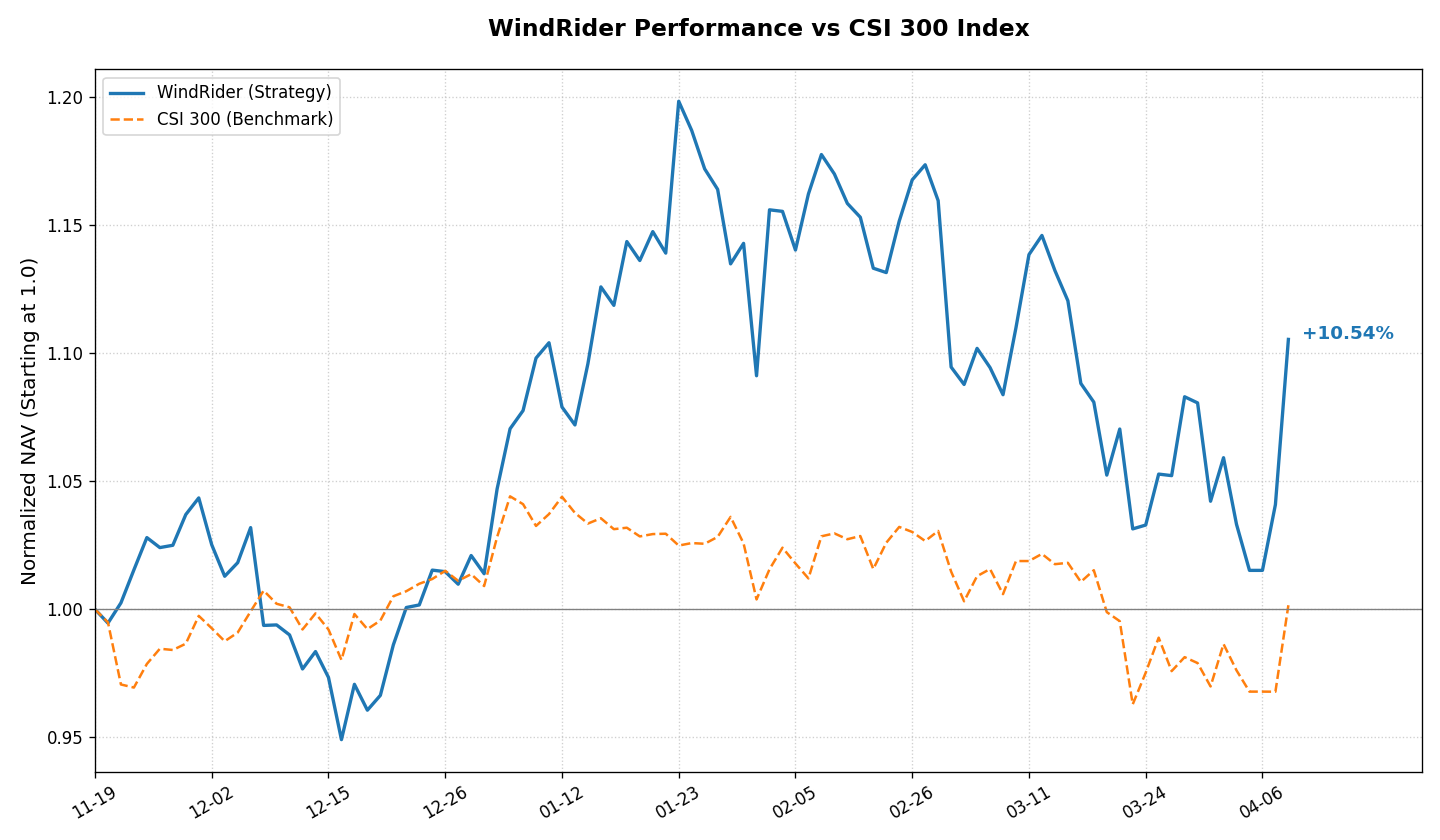
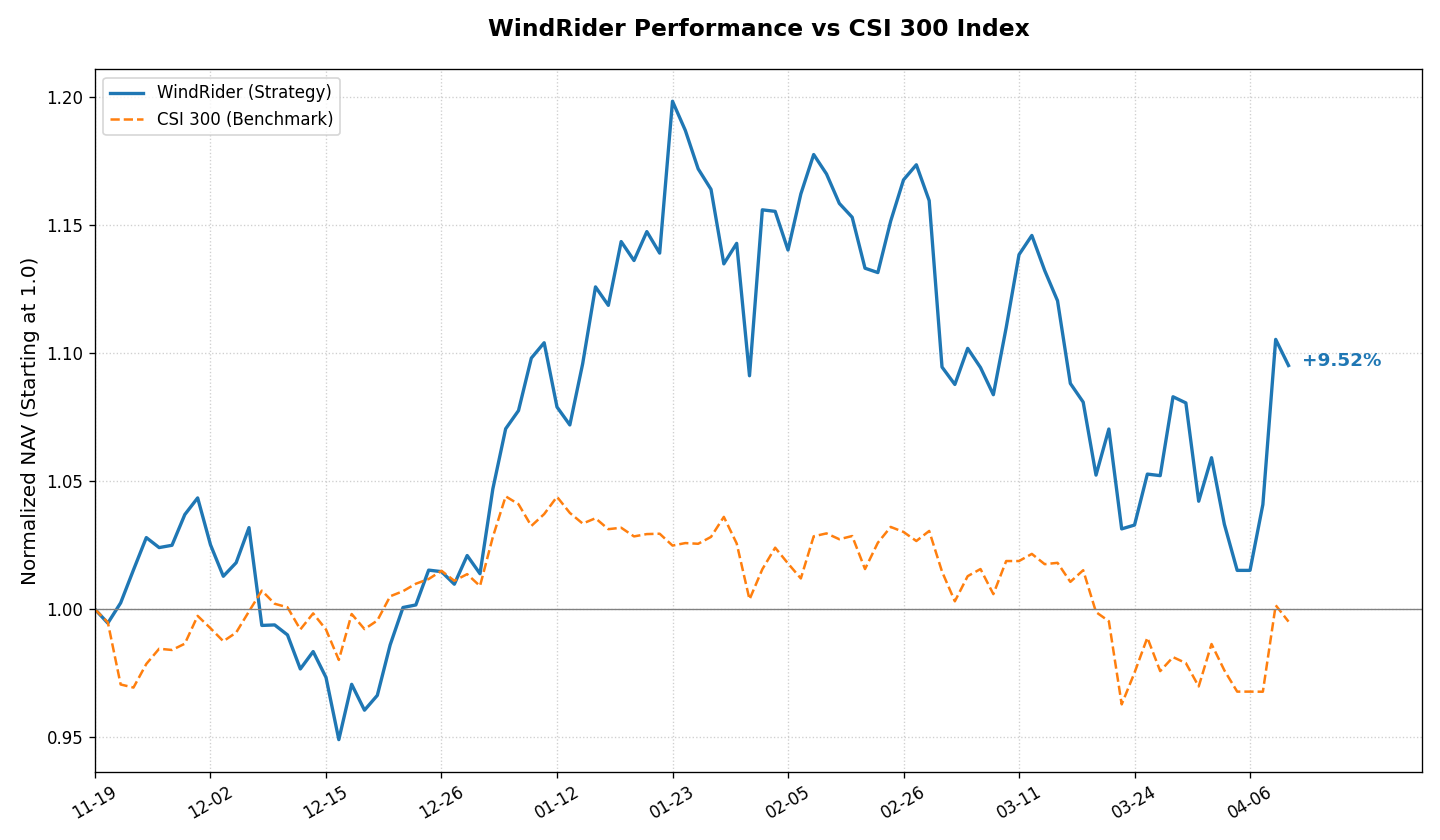
Updated Hugo site content

diff --git a/content/investment/position.md b/content/investment/position.md
@@ -1,8 +1,8 @@
 +++
 title = "如山-股票组合持仓 /// Position"
 summary = "主动管理型股票组合。对标沪深300指数，采用基本面选股策略。"
-date = 2026-04-08T15:12:04+08:00
-lastmod = 2026-04-08T15:12:04+08:00
+date = 2026-04-09T15:12:04+08:00
+lastmod = 2026-04-09T15:12:04+08:00
 draft = false
 description = "如山股票组合持仓"
 +++
@@ -12,29 +12,30 @@ description = "如山股票组合持仓"
 
 ### 风舵股票组合 &nbsp;&nbsp;<span style="color: #E63946; font-weight: bold;">/</span><span style="color: #F1A73E; font-weight: bold;">/</span><span style="color: #000091; font-weight: bold;">/</span>&nbsp;&nbsp; 每日持仓
 WindRider Equity Portfolio <br>
-净值简报 <small>(截至: 2026-04-08)</small>
+净值简报 <small>(截至: 2026-04-09)</small>
 
 |  |  |
 | :--- | :--- |
 | **指数代码：** | WDR.EQ |
 | **成立日期：** | 2025-11-19 |
-| **最新净值：** | 1.1054 |
-| **今日涨跌：** | +6.20% |
+| **最新净值：** | 1.0952 |
+| **今日涨跌：** | -0.92% |
 
 ===========================
 
 | 核心表现 | |
 | :--- | :--- |
-| **累计收益：** | +10.54% |
-| **年化收益：** | +29.86% |
+| **累计收益：** | +9.52% |
+| **年化收益：** | +26.54% |
 | **最大回撤：** | -15.29% |
-| **基准点位：** | 4595.56 (CSI300) |
-| **策略状态：** | 已运行 141 天 |
+| **基准点位：** | 4566.22 (CSI300) |
+| **策略状态：** | 已运行 142 天 |
 
 ### 持仓明细
 | 股票名称 | 成本价 | 现价 | 盈亏 | 占比 |
 | :--- | :--- | :--- | :--- | :--- | :--- |
-| 先导智能 <small>300450</small> | 52.17 | 50.91 | <span style="color:#2A9D8F">-2.41%</span> | 67.11% |
+| 先导智能 <small>300450</small> | 52.17 | 50.28 | <span style="color:#2A9D8F">-3.62%</span> | 66.89% |
+| 比亚迪 <small>002594</small> | 99.27 | 99.03 | <span style="color:#2A9D8F">-0.24%</span> | 29.28% |
 
 <br>
 
